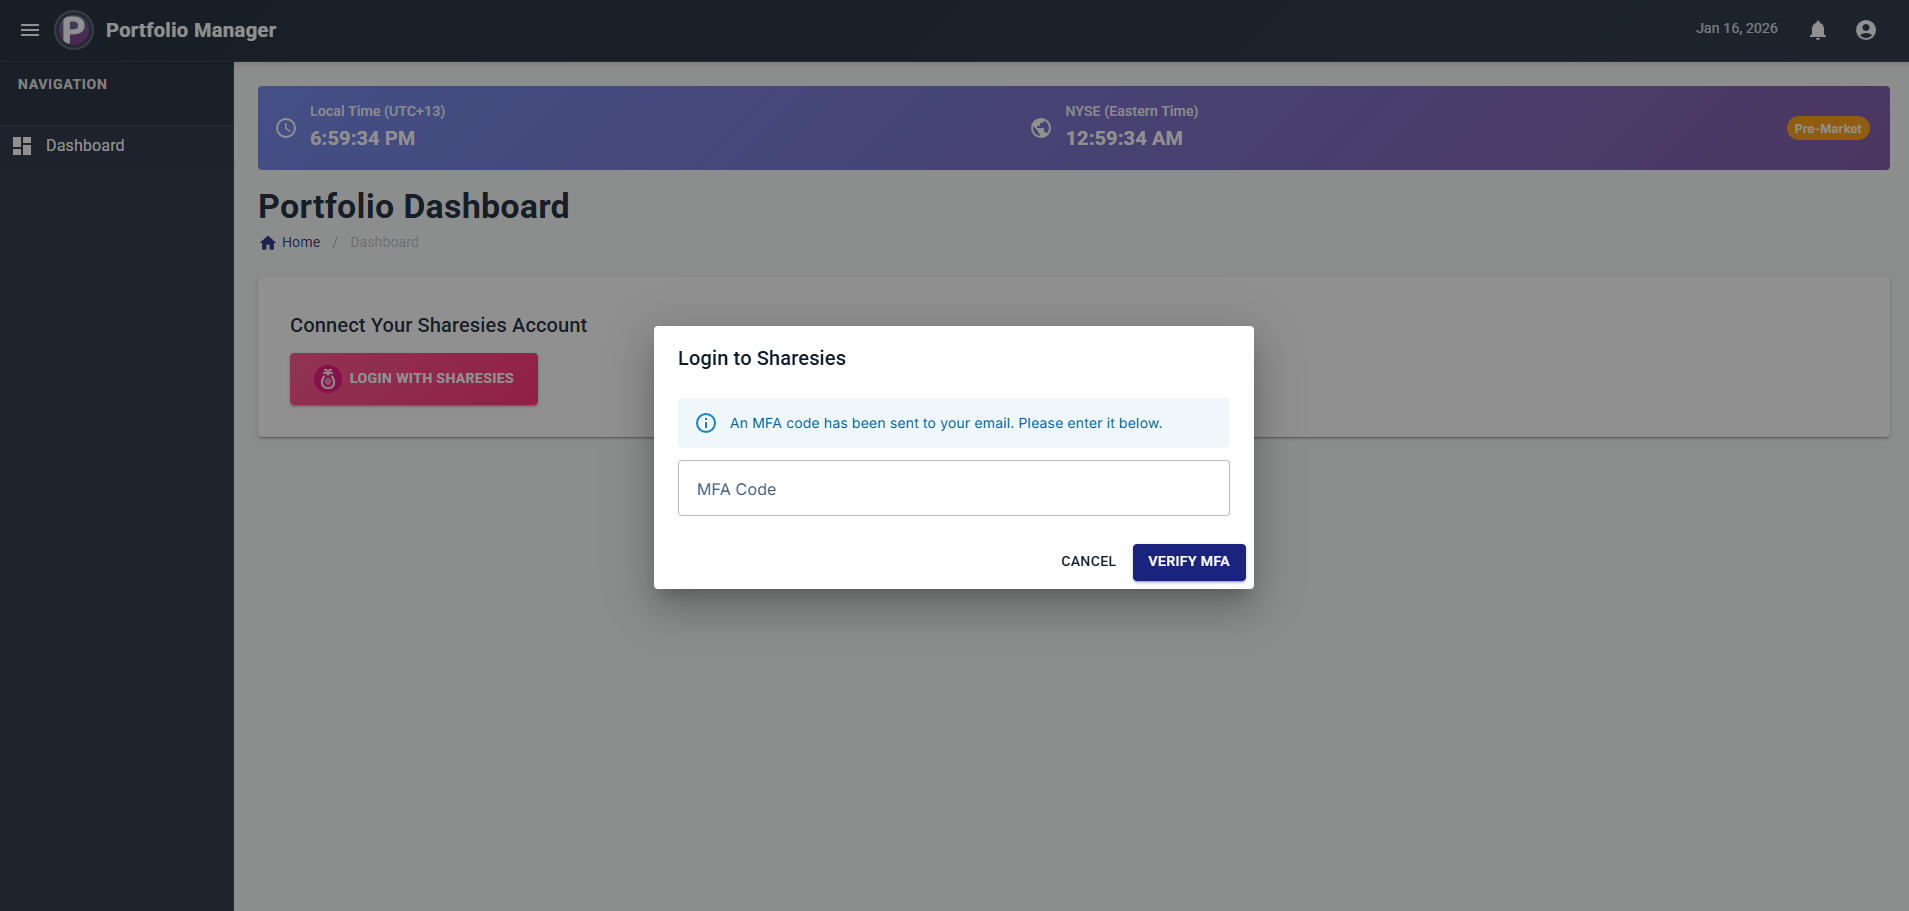
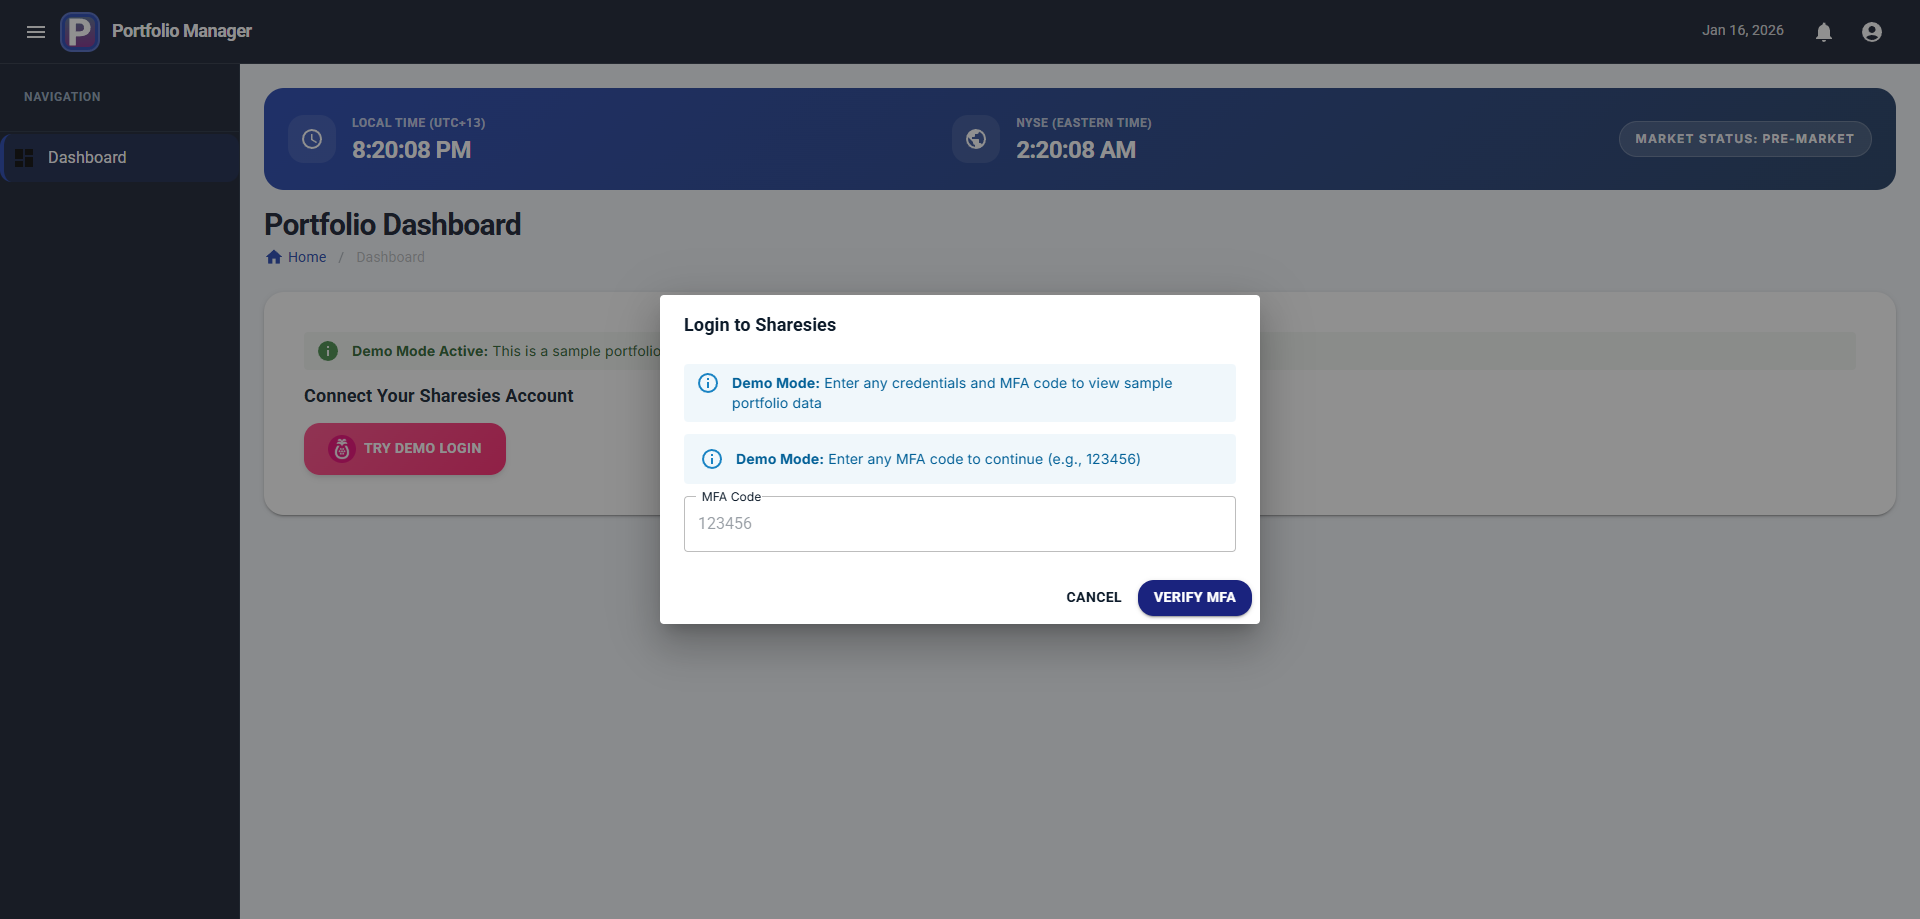
Added mfa to demo flow. Updating screenshots and added mobile example.

diff --git a/PortfolioManager.Web/Services/BrokerageService.cs b/PortfolioManager.Web/Services/BrokerageService.cs
@@ -249,18 +249,15 @@ public class BrokerageService : IBrokerageService
             };
         }
 
+        // In demo mode, always require MFA to demonstrate the full flow
         return new BrokerageAuthResult
         {
             Success = true,
-            Authenticated = true,
-            Step = AuthenticationStep.Completed,
-            UserId = "demo-user-123",
-            Tokens = new Dictionary<string, string>
-            {
-                ["RakaiaToken"] = "demo-rakaia-token",
-                ["DistillToken"] = "demo-distill-token"
-            },
-            Message = "Login successful (Demo Mode)"
+            Authenticated = false,
+            RequiresMfa = true,
+            MfaType = "Email",
+            Step = AuthenticationStep.MfaRequired,
+            Message = "MFA code sent (Demo Mode - enter any code)"
         };
     }
 

diff --git a/README.md b/README.md
@@ -28,6 +28,10 @@ Manual deployment workflow for the demo site. Deploys a Blazor WASM app with dem
 ![Dashboard](Screenshots/dashboard.png)
 *Portfolio overview with real-time analytics, holdings breakdown, and multi-brokerage support*
 
+### Mobile View
+![Mobile Dashboard](Screenshots/mobile.png)
+*Responsive mobile layout with condensed holdings list and daily return summary*
+
 ### Login Flow
 <table>
   <tr>
